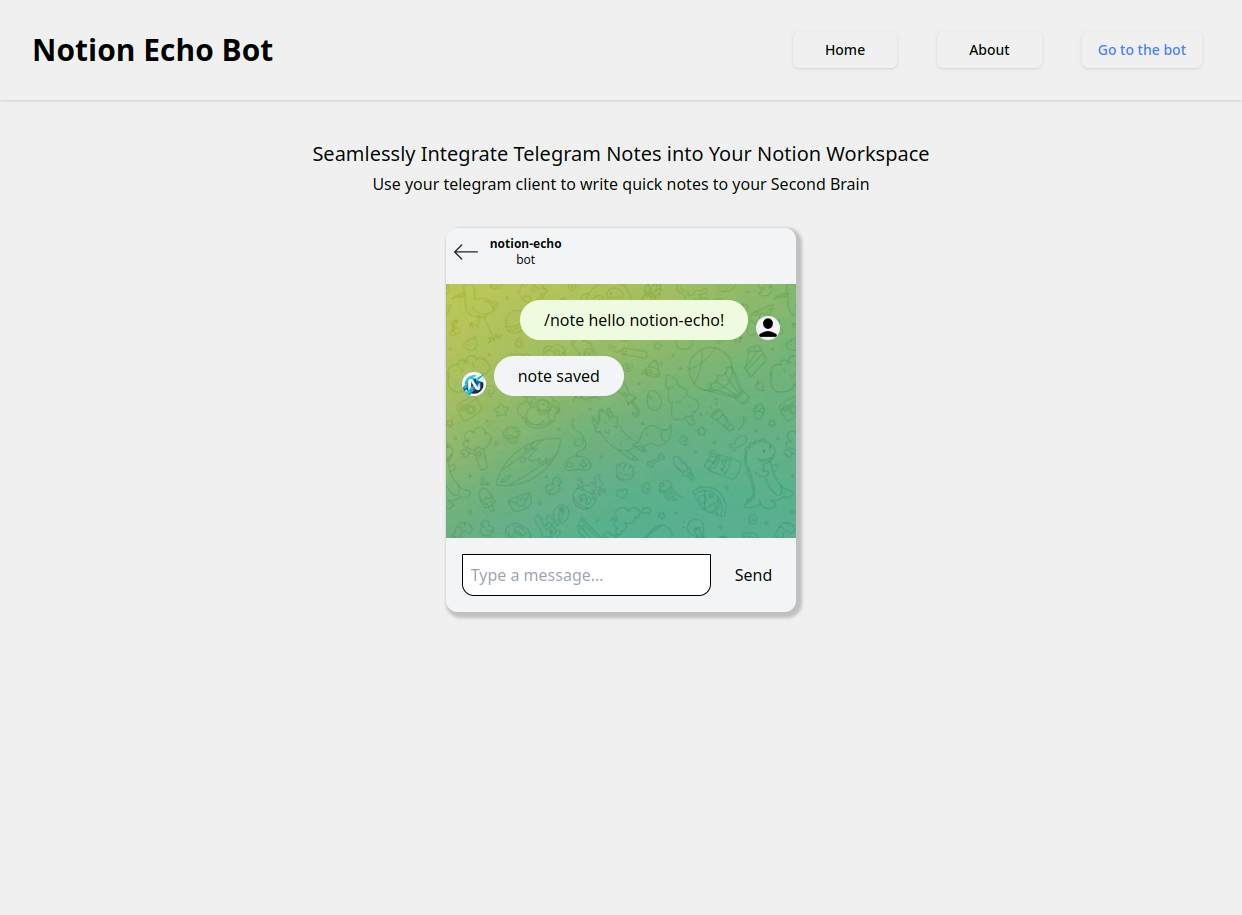
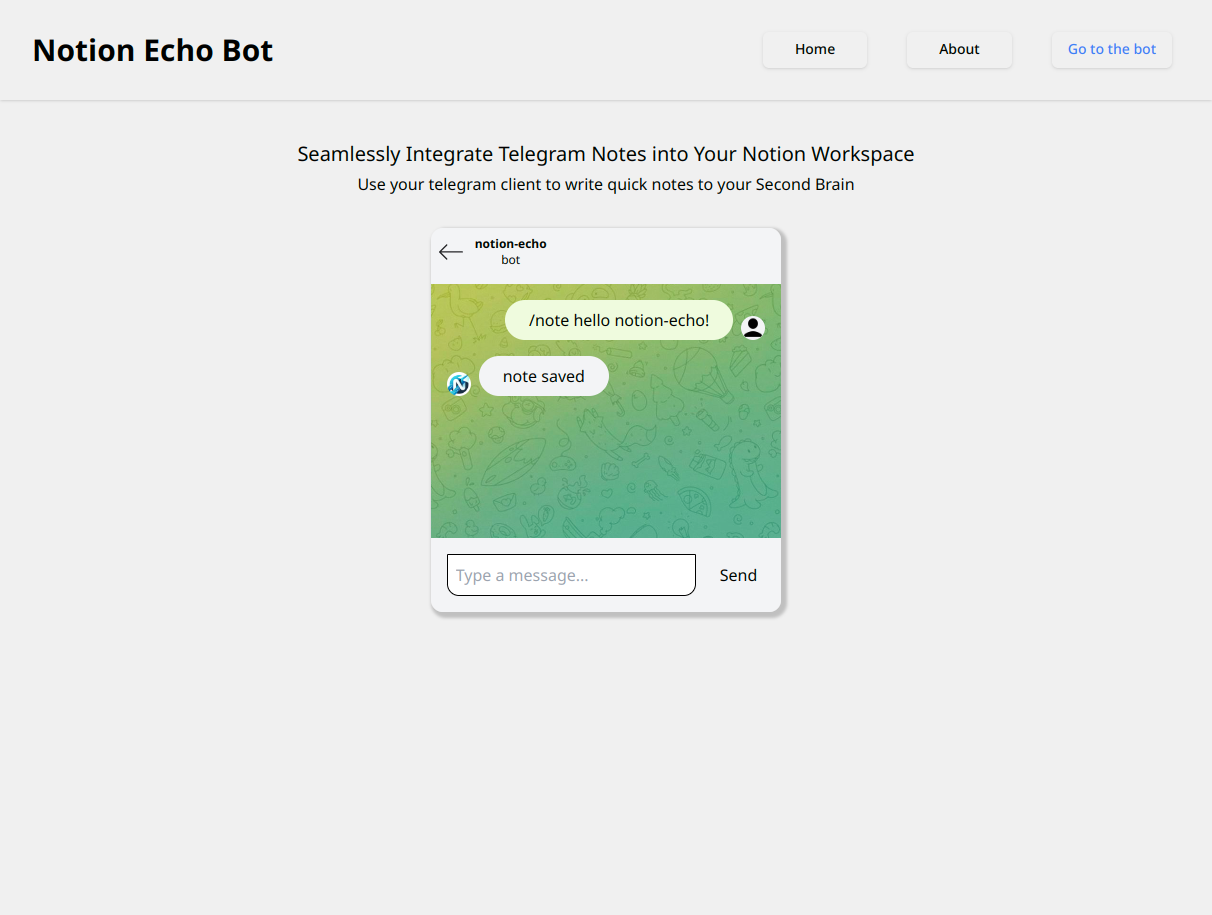
Set margin x to mobile text

diff --git a/src/components/Content.jsx b/src/components/Content.jsx
@@ -4,8 +4,8 @@ import TelegramChat from './TelegramChat';
 function MainContent() {
   return (
       <div className="w-92 h-full flex-col my-10 flex items-center text-center gap-y-1">
-        <p className="text-xl">Seamlessly Integrate Telegram Notes into Your Notion Workspace</p>
-        <p className='text-gray-500'>Use your telegram client to write quick notes to your Second Brain</p>
+        <p className="text-xl mx-4 md:mx-0">Seamlessly Integrate Telegram Notes into Your Notion Workspace</p>
+        <p className='text-gray-500 mx-4 md:mx-0'>Use your telegram client to write quick notes to your Second Brain</p>
         <br/>
         <TelegramChat />
       </div>
